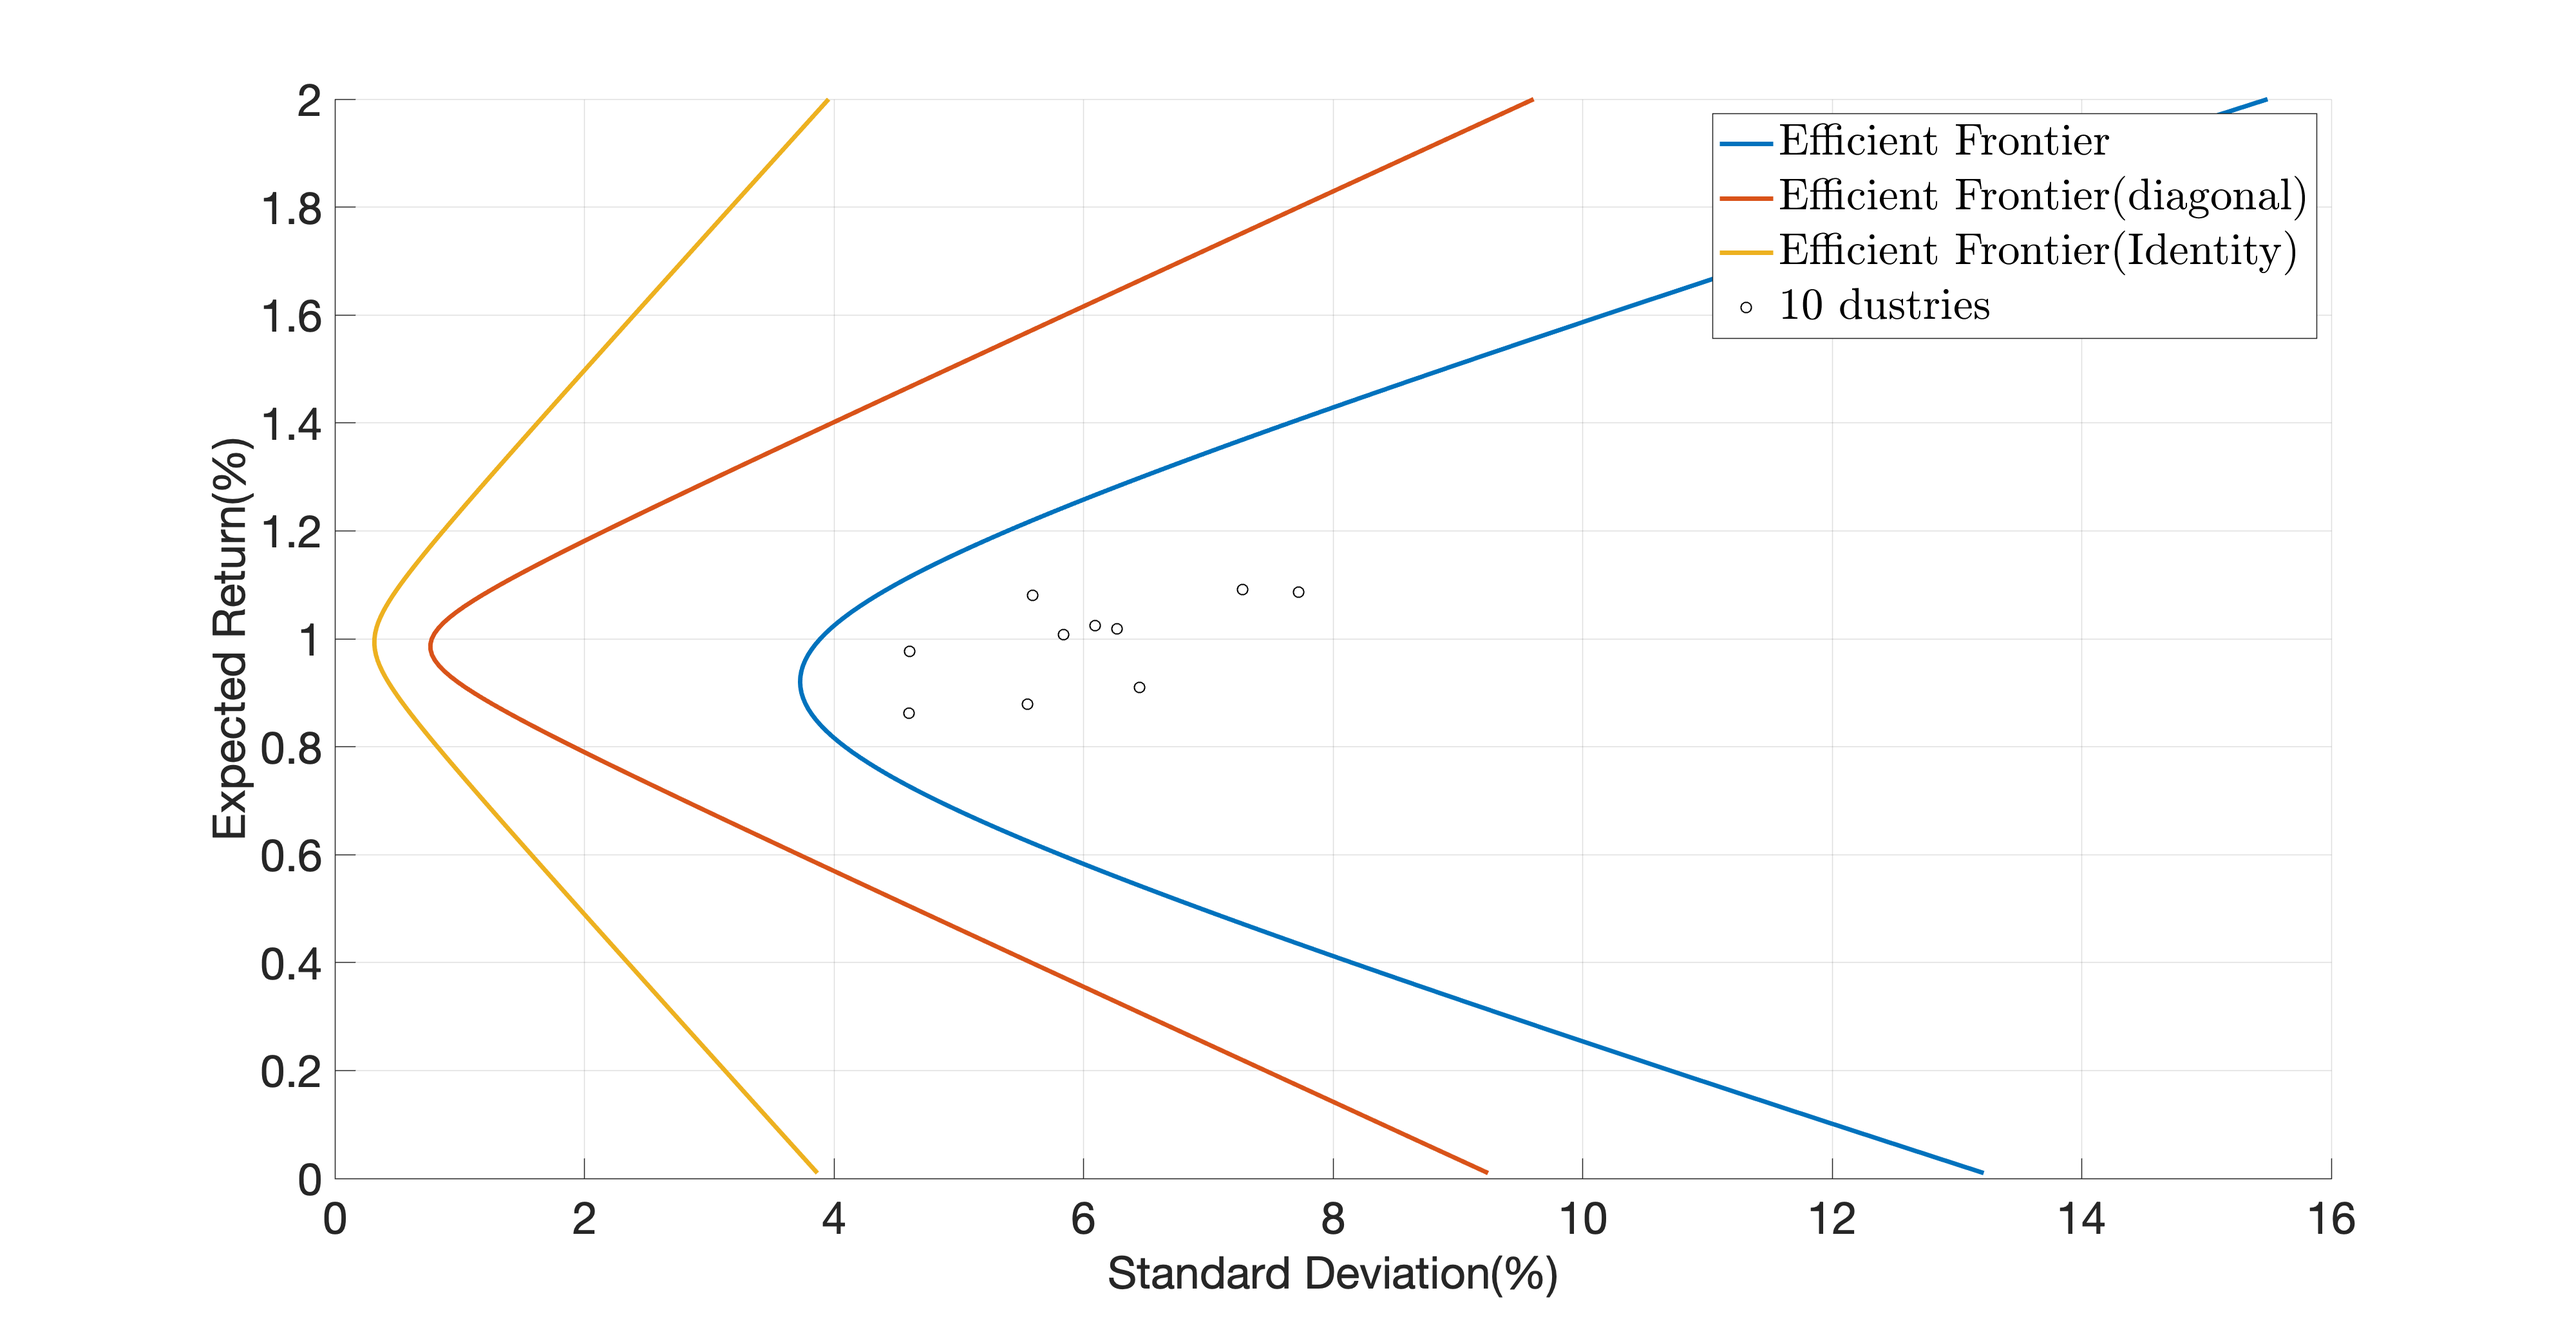
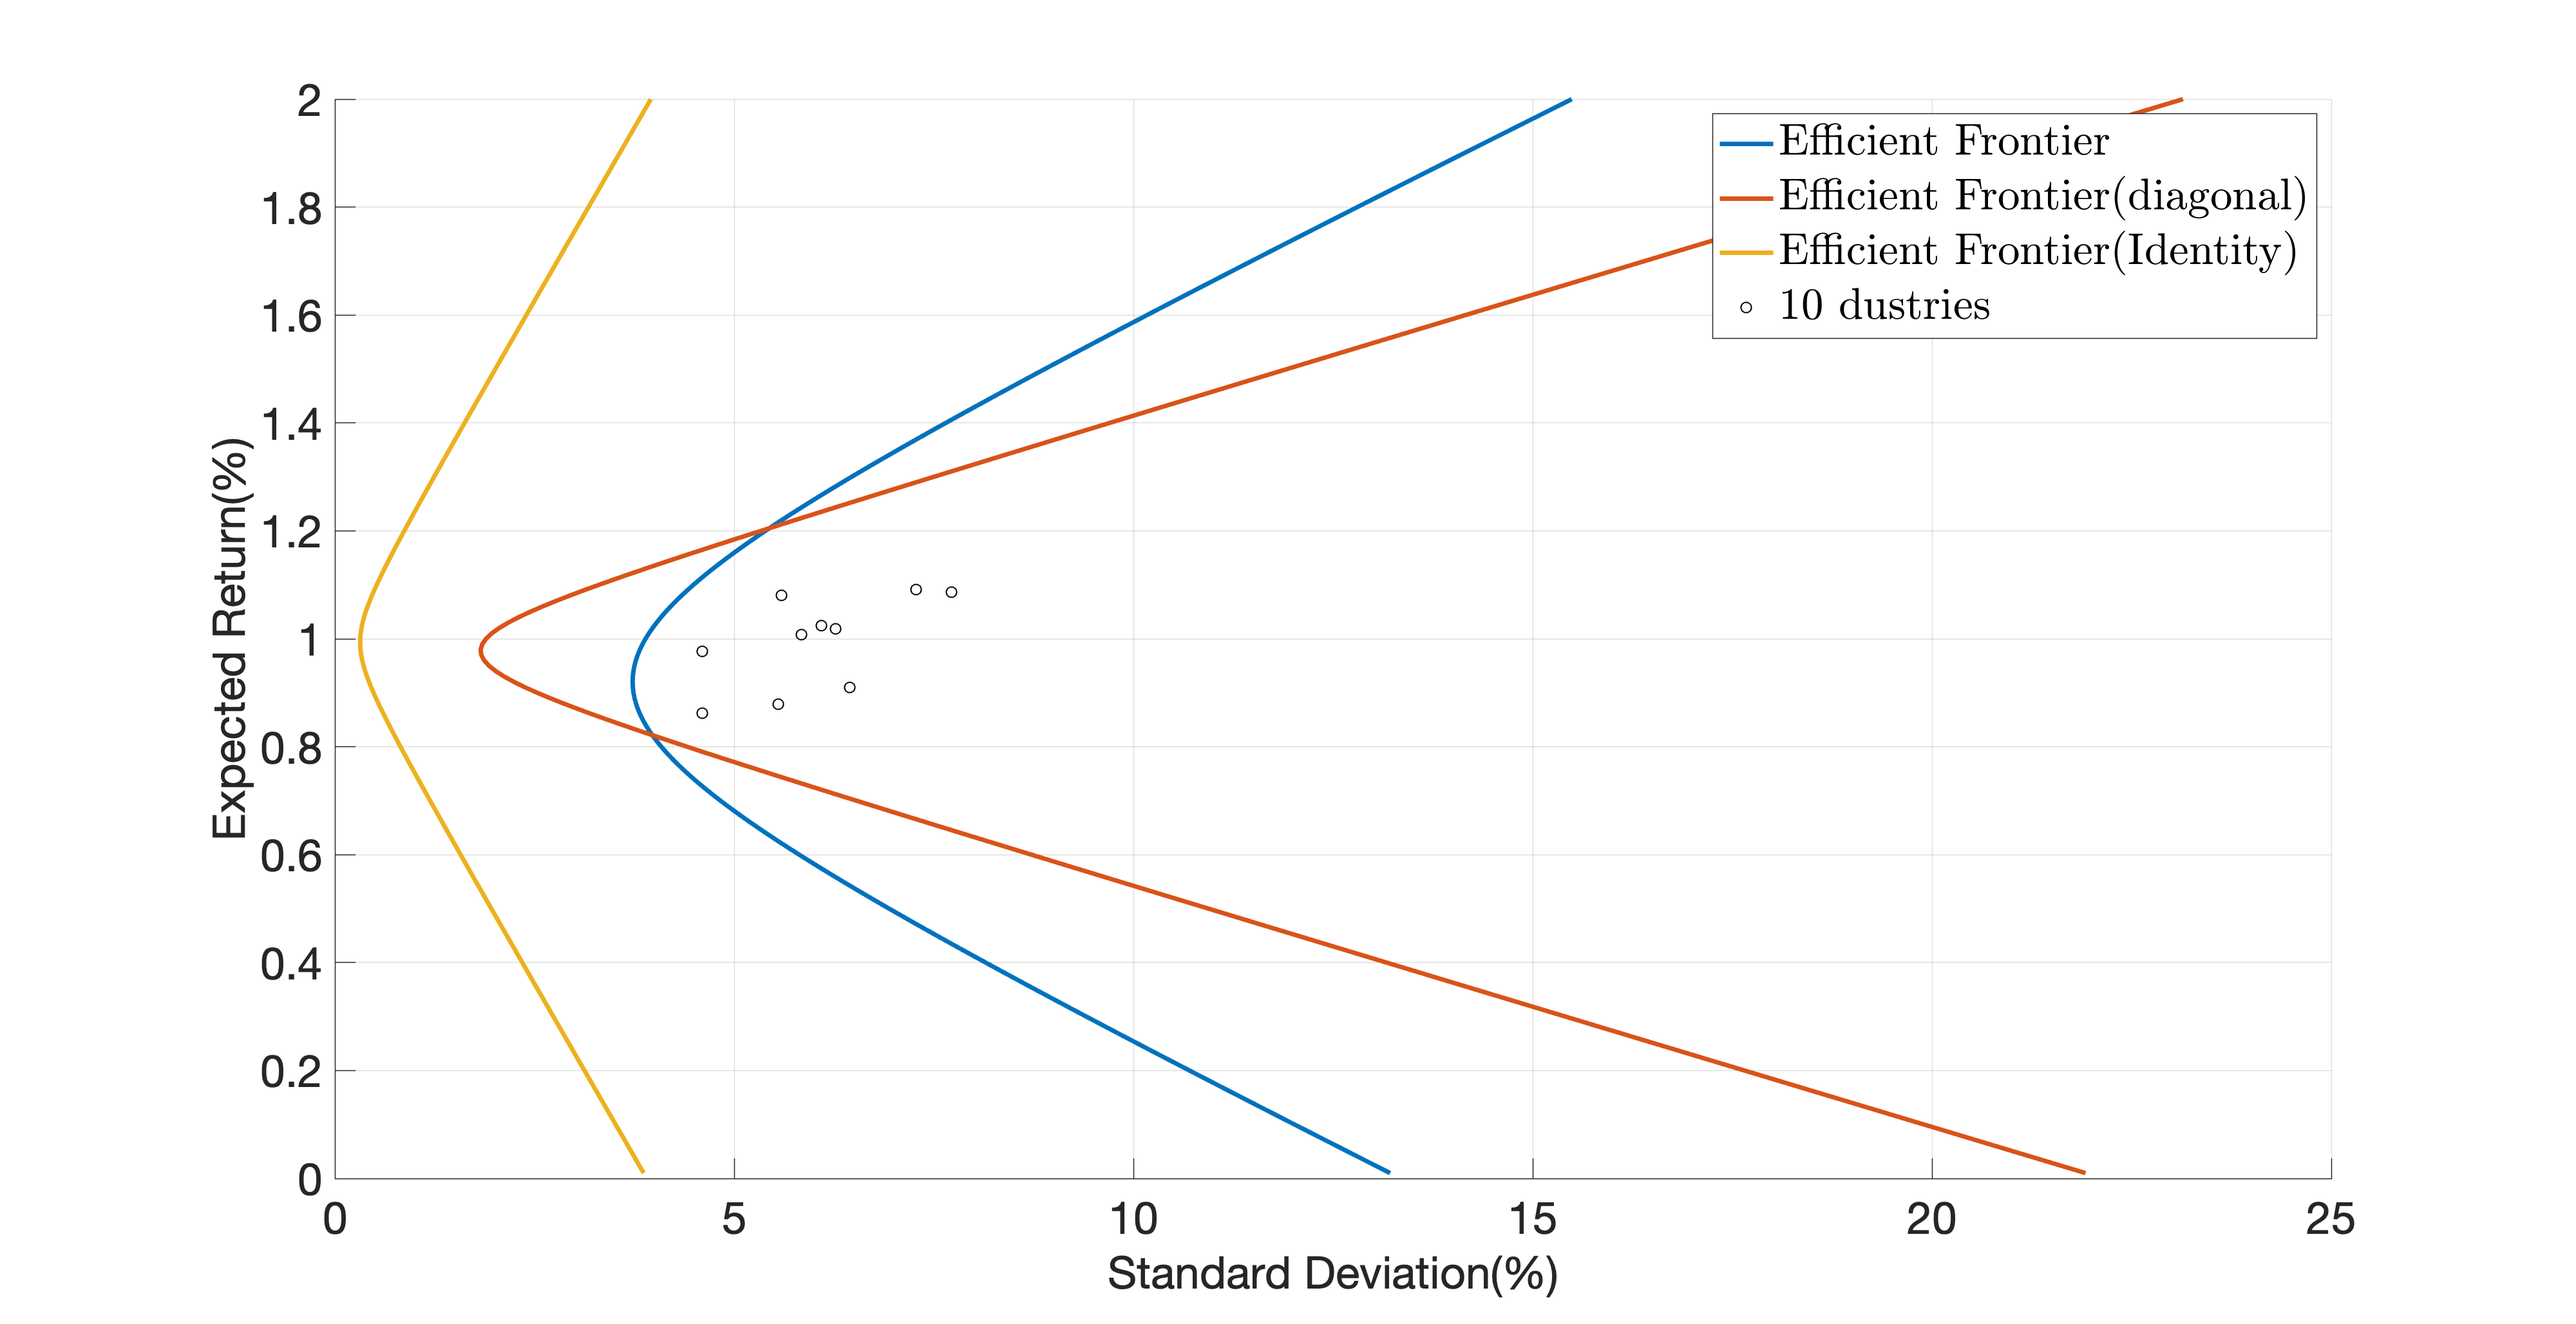
changed the code of assignment 2

diff --git a/hwk2/main.m b/hwk2/main.m
@@ -38,7 +38,7 @@ EffFront_b = effFont(V_stk,R_stk_b,0.01,2);
 plot1B;
 
 %Part c
-V_stk_c1 = diag(std_stk);
+V_stk_c1 = diag(std_stk.^2);
 
 EffFront_c1 = effFont(V_stk_c1,R_stk,0.01,2);
 
